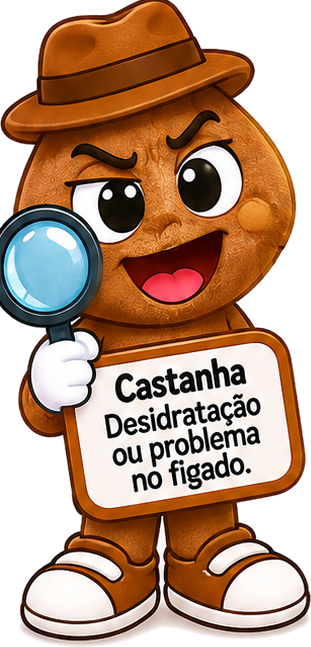
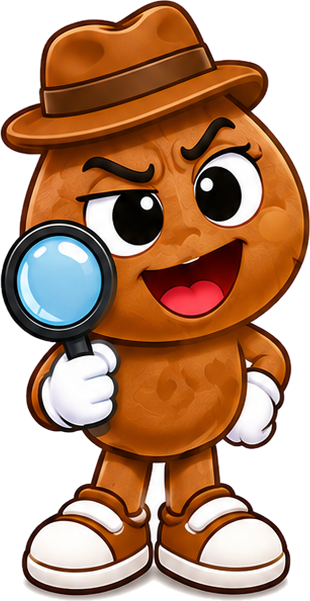
Video integrado: gotinhas da nova ilustracao, sem a rosa
Claude-Session: https://claude.ai/code/session_01UQbTKiwtnBNSD7b7MZ1zje

diff --git a/estudio/vinheta-gotinhas/recorta.py b/estudio/vinheta-gotinhas/recorta.py
@@ -21,7 +21,7 @@ def tira_fundo(im, lim=238):
 placa, _ = tira_fundo(Image.open(UP + '60637971-image.png'))
 placa.crop(placa.getbbox()).save('recortes/placa.png')
 # gotinhas: grade 4x2, cortes nos vales de menor ocupacao
-im = Image.open(UP + '507d77a1-image.png')
+im = Image.open(UP + '504c62ef-image.png')
 rgba, alpha = tira_fundo(im)
 H, W = alpha.shape
 rs = alpha.sum(1); yc = 560 + int(np.argmin(rs[560:720]))
